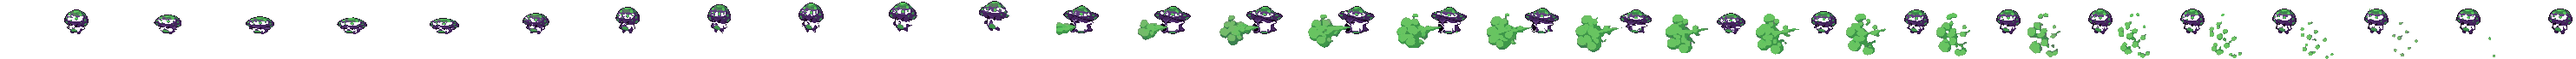
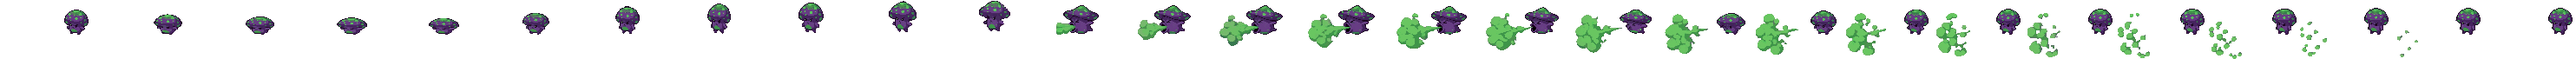
v50-51: esporas con alcance corto, golpe 3 con la mitad de desplazamiento, aviso de nivel con estadísticas, bola de esporas ya no se transparenta
Claude-Session: https://claude.ai/code/session_01QroJPREPb41kkJVNPsLb84

diff --git a/index.html b/index.html
@@ -29,6 +29,10 @@ canvas{position:fixed;inset:0;width:100%;height:100%;display:block}
 .slot.eq{opacity:.75;border-style:dashed}
 #invc,#pjc{position:relative;inset:auto;width:150px;height:132px;flex:none;image-rendering:pixelated;background:#16244a;border:2px solid #2d4678;border-radius:8px}
 #invr{background:#101c3a;border:2px solid #2d4678;border-radius:8px;padding:8px;display:grid;grid-template-columns:repeat(6,38px);grid-auto-rows:38px;gap:4px;align-content:start}
+#lvup{position:fixed;left:50%;bottom:14px;transform:translateX(-50%) translateY(20px);background:#0d1730ee;border:2px solid #e0b84a;border-radius:10px;padding:7px 14px;color:#cfe0ff;font:600 12px/1.4 system-ui;text-align:center;opacity:0;pointer-events:none;transition:opacity .25s,transform .25s;z-index:20}
+#lvup.on{opacity:1;transform:translateX(-50%)}
+#lvup b{display:block;color:#ffe27a;font:800 14px system-ui}
+#lvup span{display:block}
 #invg{display:flex;flex-direction:column;gap:6px;width:268px;flex:none}
 #invd{background:#101c3a;border:2px solid #2d4678;border-radius:8px;padding:5px 8px;font:600 12px/1.3 system-ui;height:66px;box-sizing:border-box;overflow:hidden;flex:none;color:#b8cdf5}
 #invd b{color:#fff;font-weight:800}
@@ -52,12 +56,13 @@ canvas{position:fixed;inset:0;width:100%;height:100%;display:block}
 <div id="hud"></div>
 <button id="ab">ATK</button><button id="db">DASH</button><button id="sb">ONDA</button><button id="ub">ULT</button>
 <div id="zoom"><button id="bp" title="Inventario"></button><button id="hb" title="Personaje"></button><button id="zm">&minus;</button><button id="zp">+</button></div>
+<div id="lvup"></div>
 <div id="inv"><div id="invp"><div id="invh"><span>INVENTARIO</span><button id="invx">&times;</button></div><div id="invb"><div id="invl"><div class="eqc"><div class="slot eq"></div><div class="slot eq"></div></div><canvas id="invc" width="150" height="132"></canvas><div class="eqc"><div class="slot eq"></div><div class="slot eq"></div></div></div><div id="invg"><div id="invr"></div><div id="invd">Pasa el dedo sobre un objeto para ver qué hace.</div></div></div></div><div id="pjp"><div id="pjh"><span>PERSONAJE</span><button id="pjx">&times;</button></div><div id="pjb"><div id="pjl"><canvas id="pjc" width="150" height="132"></canvas><div id="pjn"></div></div><div id="pjr"></div></div></div></div>
 <div id="msg">Cargando…</div>
 <script>
 (()=>{
 'use strict';
-const VER='iso-prueba v49';
+const VER='iso-prueba v51';
 const cv=document.getElementById('c'), ctx=cv.getContext('2d');
 const dark=document.createElement('canvas'), dctx=dark.getContext('2d');
 const hud=document.getElementById('hud'), msg=document.getElementById('msg');
@@ -66,7 +71,7 @@ const IMG={}; let loaded=0, failed=null;
 names.forEach(n=>{const im=new Image();
   im.onload=()=>{if(++loaded===names.length&&!failed){msg.remove();requestAnimationFrame(frame);}};
   im.onerror=()=>{failed=n;msg.textContent='No cargó la imagen: '+n;};
-  im.src='assets/iso/'+n+'.png?v=21';IMG[n]=im;});
+  im.src='assets/iso/'+n+'.png?v=22';IMG[n]=im;});
 
 /* ---------- mapa ---------- */
 const HW=55, HH=28, LH=34;          // medio ancho / medio alto de la casilla, alto de un piso
@@ -81,9 +86,9 @@ const trees=[[1.5,1.5],[3.5,0.8],[0.8,4.5],[2.6,12.5],[5.4,13.5],[8.5,14.2],[12.
 trees.push([2.5,9.0],[4.2,2.2],[12.3,8.1],[14.2,11.6],[10.2,12.8],[2.2,3.2],[6.0,12.0],[11.6,9.9],[7.4,12.8]);
 trees.forEach(t=>{t.hp=4;t.sh=0;t.fall=-1;t.gone=false;t.dir=1;t.terr=(t[0]>=10&&t[0]<16&&t[1]>=2&&t[1]<7);});
 const STUMP=[7.5,5.5];
-const ENM={"champWalkF":{"fw":29,"fh":33,"n":17,"ax":14,"ay":32},"champWalkB":{"fw":30,"fh":33,"n":28,"ax":15,"ay":32},"champAtkF":{"fw":62,"fh":33,"n":18,"ax":41,"ay":32,"hit":12},"champAtkB":{"fw":51,"fh":32,"n":20,"ax":21,"ay":32,"hit":12},"puffWalkF":{"fw":32,"fh":45,"n":33,"ax":16,"ay":44},"puffWalkB":{"fw":33,"fh":45,"n":33,"ax":16,"ay":45},"puffAtkF":{"fw":106,"fh":69,"n":28,"ax":88,"ay":40,"hit":12},"puffAtkB":{"fw":103,"fh":65,"n":26,"ax":21,"ay":65,"hit":10},"bossWalkF":{"fw":68,"fh":81,"n":44,"ax":34,"ay":80},"bossWalkB":{"fw":63,"fh":81,"n":40,"ax":31,"ay":80},"bossAtkF":{"fw":116,"fh":85,"n":35,"ax":79,"ay":79,"hit":11},"bossAtkB":{"fw":120,"fh":87,"n":41,"ax":40,"ay":81,"hit":18}};
+const ENM={"champWalkF":{"fw":29,"fh":33,"n":17,"ax":14,"ay":32},"champWalkB":{"fw":30,"fh":33,"n":28,"ax":15,"ay":32},"champAtkF":{"fw":62,"fh":33,"n":18,"ax":41,"ay":32,"hit":12},"champAtkB":{"fw":51,"fh":32,"n":20,"ax":21,"ay":32,"hit":12},"puffWalkF":{"fw":32,"fh":45,"n":33,"ax":16,"ay":45},"puffWalkB":{"fw":33,"fh":45,"n":33,"ax":16,"ay":45},"puffAtkF":{"fw":106,"fh":68,"n":28,"ax":88,"ay":40,"hit":12},"puffAtkB":{"fw":103,"fh":65,"n":26,"ax":21,"ay":65,"hit":10},"bossWalkF":{"fw":68,"fh":81,"n":44,"ax":34,"ay":80},"bossWalkB":{"fw":63,"fh":81,"n":40,"ax":31,"ay":80},"bossAtkF":{"fw":116,"fh":85,"n":35,"ax":79,"ay":79,"hit":11},"bossAtkB":{"fw":120,"fh":87,"n":41,"ax":40,"ay":81,"hit":18}};
 const ET={champ:{hp:20,sp:.55,ch:.95,rng:.8,cd:1.1,xp:10,resp:8,adur:1.0,sh:[9,3],kbr:1,rr:0},
- puff:{hp:26,sp:.5,ch:.8,rng:2.7,cd:2.6,xp:15,resp:10,adur:1.6,sh:[8,3],kbr:1,rr:0},
+ puff:{hp:26,sp:.5,ch:.8,rng:1.3,cd:2.6,xp:15,resp:10,adur:1.6,sh:[8,3],kbr:1,rr:0},
  boss:{hp:260,sp:.45,ch:.6,rng:2.0,cd:3.0,xp:150,resp:90,adur:2.0,sh:[26,7],kbr:.2,rr:.6}};
 const BOSSHOME=[15,13.5];
 function mkE(t,x,y,k){const T=ET[t];return{type:t,x,y,hx:x,hy:y,tx:x,ty:y,wait:Math.random()*2,face:-1,back:false,ph:k*1.7,hp:T.hp,mhp:T.hp,rr:T.rr,cd:0,flash:0,kx:0,ky:0,alive:true,resp:0,at:0,atHit:true,hitF:.5,mv:false};}
@@ -93,10 +98,15 @@ const hero={chopT:0,chopHit:true,chopTree:null,run:false,runT:0,gap:0,rs:0,x:6.5
 const bag={esp:0,somb:0,mad:0};
 const LV={lvl:1,xp:0,sk:{atk:1,onda:1,ult:1}},LVMAX=60,SKMAX=10;
 const xpNeed=l=>50+50*l;
+let lvTimer=0;
+function lvToast(l0){const e=document.getElementById('lvup'),n=LV.lvl-l0;
+  e.innerHTML='<b>¡Subiste a nivel '+LV.lvl+'!</b><span>Vida máx '+(100+2*(l0-1))+' → '+hero.mhp+' (+'+(2*n)+')</span><span>Daño +'+(3*(LV.lvl-1))+'% en total (+'+(3*n)+'%)</span>';
+  e.classList.add('on');clearTimeout(lvTimer);lvTimer=setTimeout(()=>e.classList.remove('on'),3500);}
 function dm(k,b){return Math.max(1,Math.round(b*(1+.12*(LV.sk[k]-1))*(1+.03*(LV.lvl-1))));}
-function addXp(n){if(LV.lvl>=LVMAX)return;LV.xp+=n;
+function addXp(n){if(LV.lvl>=LVMAX)return;LV.xp+=n;const l0=LV.lvl;
   while(LV.lvl<LVMAX&&LV.xp>=xpNeed(LV.lvl)){LV.xp-=xpNeed(LV.lvl);LV.lvl++;hero.mhp=100+2*(LV.lvl-1);hero.hp=hero.mhp;addFloat(hero.x,hero.y,'¡Nivel '+LV.lvl+'!','#ffe27a');ring(hero.x,hero.y);}
-  if(LV.lvl>=LVMAX)LV.xp=0;}
+  if(LV.lvl>=LVMAX)LV.xp=0;
+  if(LV.lvl>l0)lvToast(l0);}
 const R=0.17;
 {const q=new URLSearchParams(location.search);if(q.get('x'))hero.x=+q.get('x');if(q.get('y'))hero.y=+q.get('y');}
 
@@ -280,7 +290,7 @@ function killMush(m){
 function enemyHit(m,hd0){
   const hd=Math.hypot(hero.x-m.x,hero.y-m.y);
   if(m.type==='champ'){if(hd<1.1&&los(m.x,m.y,hero.x,hero.y))hurtHero(6);}
-  else if(m.type==='puff'){const px=m.x+(hero.x-m.x)/(hd||1)*1.2,py=m.y+(hero.y-m.y)/(hd||1)*1.2;spark(px,py,6,3);if(hd<3.3&&los(m.x,m.y,hero.x,hero.y))hurtHero(5);}
+  else if(m.type==='puff'){const px=m.x+(hero.x-m.x)/(hd||1)*.8,py=m.y+(hero.y-m.y)/(hd||1)*.8;spark(px,py,6,3);if(hd<1.7&&los(m.x,m.y,hero.x,hero.y))hurtHero(5);}
   else{addShake(4,.3);ring(m.x,m.y);dust(m.x,m.y,6);if(hd<2.7&&los(m.x,m.y,hero.x,hero.y))hurtHero(18);}
 }
 function respawn(m){
@@ -461,13 +471,13 @@ function update(dt,t){
     hero.walk+=dt*4.2*((68+67*hero.rs)/95);hero.stepT=(hero.stepT||0)-dt;if(hero.stepT<=0&&hero.atkT<=0){hero.stepT=.17;dust(hero.x,hero.y,1,1);if(Math.random()<.5)leaf(hero.x,hero.y);}
   }
   if(hero.dashAtk&&hero.dash<=0){hero.dashAtk=false;hero.dRet=false;hero.back=(hero.fx+hero.fy)<0;hero.face=(hero.fx-hero.fy)>=0?1:-1;}
-  if(hero.dash>0&&hero.dashAtk){const p=1-hero.dash/hero.dDur,P=q=>Math.sin(Math.PI*Math.min(1,Math.max(0,(q-.08)/.84)));let d=(P(p)-P(hero.dp||0))*1.5;hero.dp=p;
+  if(hero.dash>0&&hero.dashAtk){const p=1-hero.dash/hero.dDur,P=q=>Math.sin(Math.PI*Math.min(1,Math.max(0,(q-.08)/.84)));let d=(P(p)-P(hero.dp||0))*.75;hero.dp=p;
     if(p>=.5&&!hero.dRet){hero.dRet=true;hero.back=(-hero.fx-hero.fy)<0;hero.face=(-hero.fx+hero.fy)>=0?1:-1;}
     if(d>0){if(Math.random()<dt*22)dust(hero.x,hero.y,1);const x0=hero.x,y0=hero.y;if(!blockedAt(hero.x+hero.fx*d,hero.y,R))hero.x+=hero.fx*d;if(!blockedAt(hero.x,hero.y+hero.fy*d,R))hero.y+=hero.fy*d;hero.dOut=(hero.dOut||0)+Math.hypot(hero.x-x0,hero.y-y0);}
     else if(d<0){const b=Math.min(-d,hero.dOut||0);hero.x-=hero.fx*b;hero.y-=hero.fy*b;hero.dOut-=b;if(Math.random()<dt*22)dust(hero.x,hero.y,1);}}
   else if(hero.dash>0){const p=1-hero.dash/hero.dDur,E=q=>{const u=Math.min(1,Math.max(0,(q-.15)/.6));return u*u*(3-2*u);};const d=(E(p)-E(hero.dp||0))*1.28;hero.dp=p;
     if(d>0){if(Math.random()<dt*22)dust(hero.x,hero.y,1);if(Math.random()<dt*30)leaf(hero.x,hero.y);const wx=hero.fx*d,wy=hero.fy*d;if(!blockedAt(hero.x+wx,hero.y,R))hero.x+=wx;if(!blockedAt(hero.x,hero.y+wy,R))hero.y+=wy;}}
-  if(hero.dash>0&&hero.dashAtk){if(hero.dash<=hero.dDur*.5&&!hero.dashHit){hero.dashHit=true;dashStrike(2.0,true);}else if(!hero.dashHit)dashStrike(1.0,false);}
+  if(hero.dash>0&&hero.dashAtk){if(hero.dash<=hero.dDur*.5&&!hero.dashHit){hero.dashHit=true;dashStrike(1.5,true);}else if(!hero.dashHit)dashStrike(1.0,false);}
   combat(dt);
   for(let k=floats.length-1;k>=0;k--){floats[k].t+=dt;if(floats[k].t>.9)floats.splice(k,1);}
   for(const m of mushes){
@@ -486,7 +496,7 @@ function update(dt,t){
       if(!m.atHit&&m.at<=T.adur*(1-m.hitF)){m.atHit=true;enemyHit(m,hd);}
     }else if(hd<(m.type==='boss'?7:3.6)&&hero.hp>0){
       dx=hero.x-m.x;dy=hero.y-m.y;face();
-      if(m.type==='puff'){sp=hd<1.9?T.ch:(hd>T.rng+.5?T.ch:0);if(hd<1.9){dx=-dx;dy=-dy;}}
+      if(m.type==='puff'){sp=hd<.9?T.ch:(hd>T.rng+.4?T.ch:0);if(hd<.9){dx=-dx;dy=-dy;}}
       else sp=hd>T.rng-.2?T.ch:0;
       if(hd<=T.rng&&m.cd<=0&&(m.type!=='puff'||los(m.x,m.y,hero.x,hero.y))){
         m.at=T.adur;m.atHit=false;m.cd=T.cd+T.adur;sp=0;
